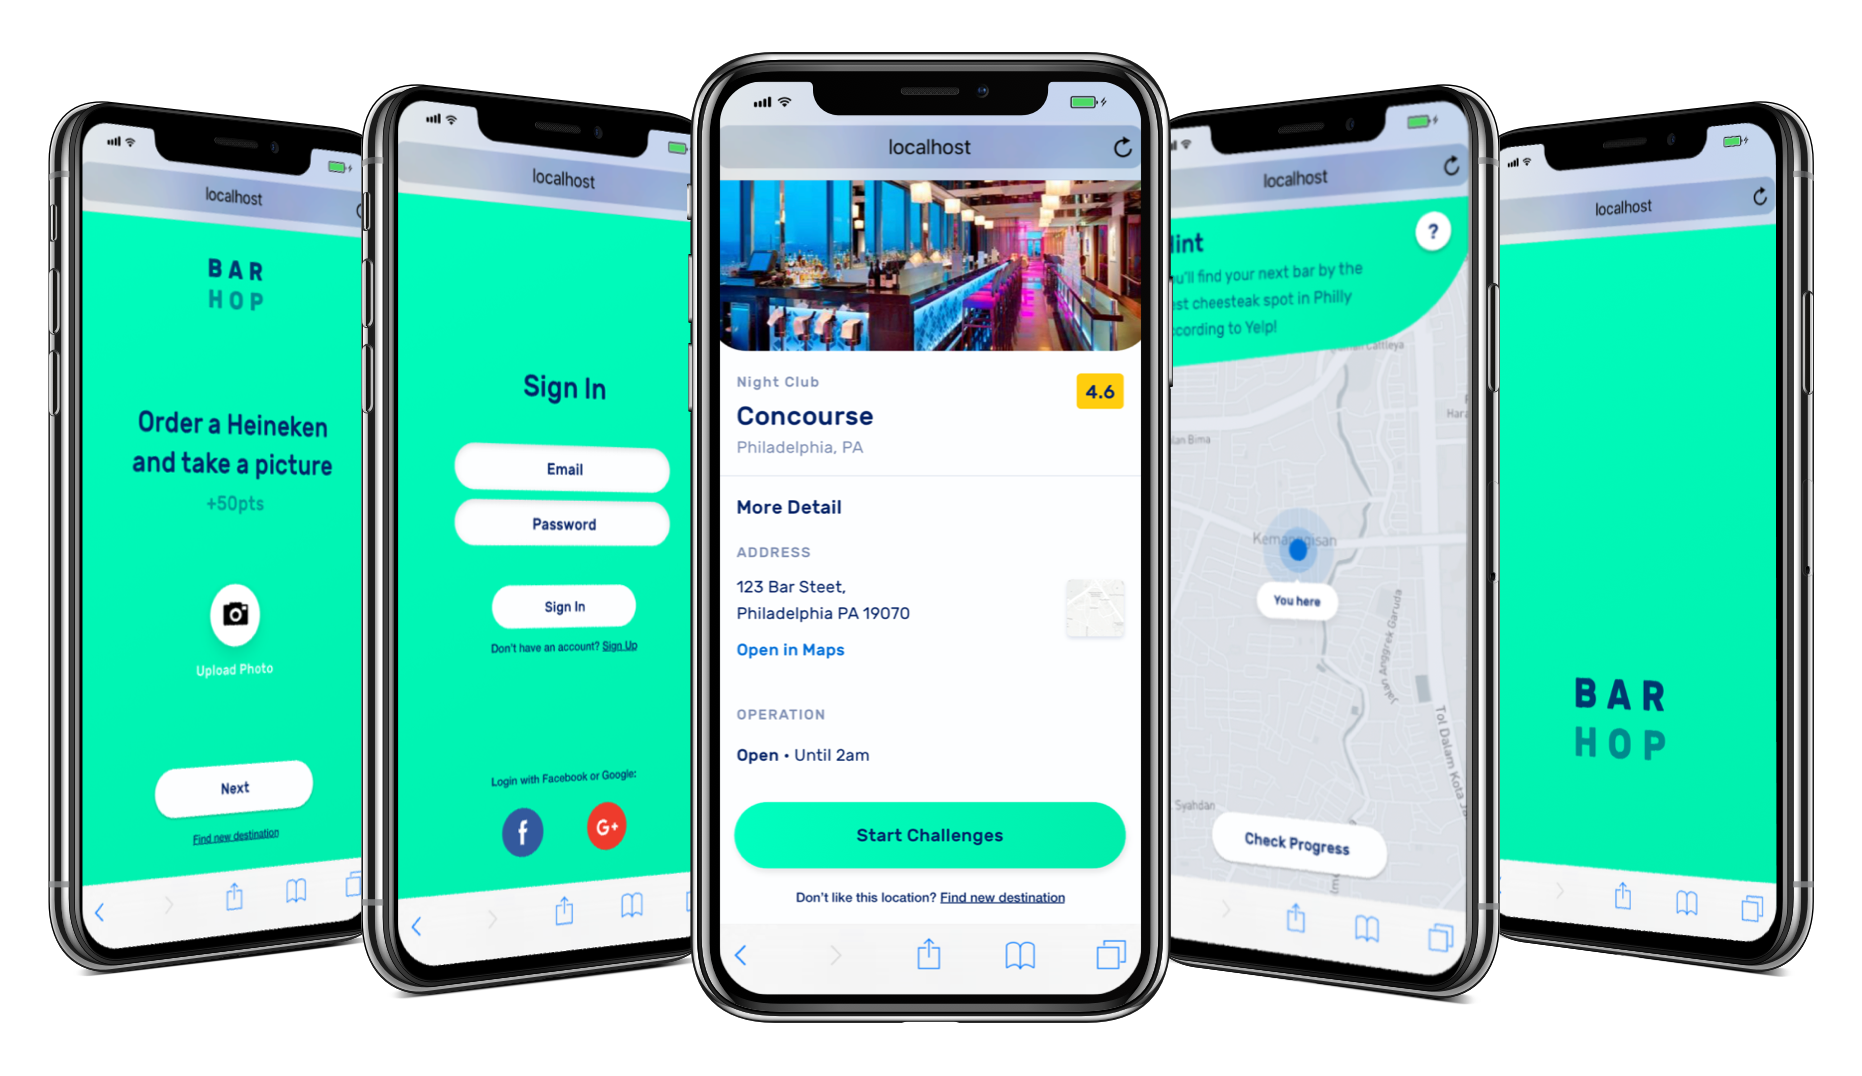
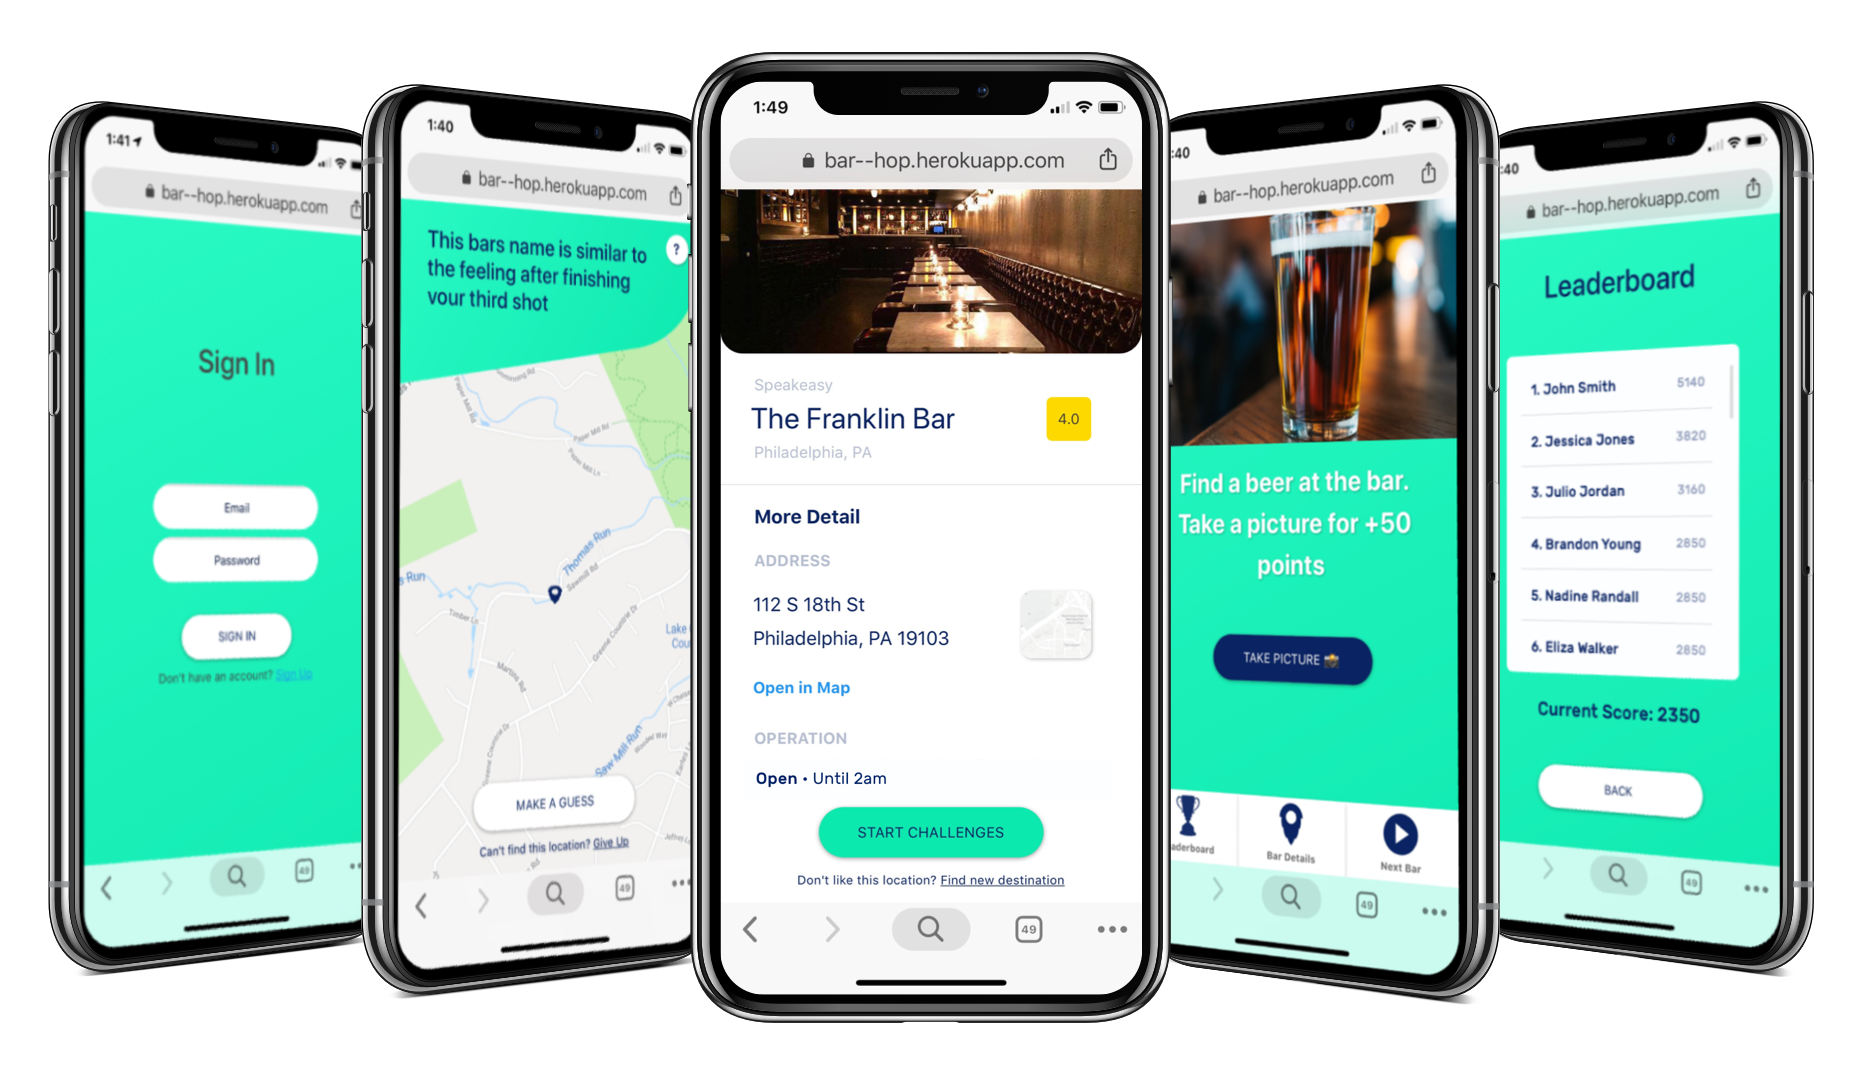
new phone images on desktop

diff --git a/client/src/Components/Desktop/Features.js b/client/src/Components/Desktop/Features.js
@@ -1,7 +1,7 @@
 import React, { Component } from "react";
 // import "./assets/styles/style.css";
 import "./assets/styles/Features.css";
-import mobile from "./assets/img/barhop.png"
+import map from "./assets/img/map.png"
 import yelp from "./assets/img/yelp.png"
 import leaderboard from "./assets/img/leaderboard.png"
 import challenge from "./assets/img/challenge.png"
@@ -21,13 +21,13 @@ class Features extends Component {
                     <div className="container mt-5 mx-auto my-auto d-flex justify-content-center">
                         <div className="row mt-5">
                             <div className="col-lg-12 mx-auto my-auto d-flex justify-content-center">
-                                <img className="shadow-lg friendsImg" src={mobile} alt={"mobile"} />
+                                <img className="shadow-lg friendsImg" src={map} alt={"map"} />
                             </div>
                             <div className="col-lg-12 mx-auto my-auto d-flex justify-content-center">
                             <h1 className=" secondHeader
                             col-md-12 text-center mt-4">Mapping Your Course</h1>
                             </div>
-                            <div className="col-lg-12 mx-auto my-auto d-flex justify-content-center">
+                            <div className="col-lg-8 col-md-12 mx-auto my-auto d-flex justify-content-center">
                                 <p className="pageText text-center fontStyle mr-4 ml-4 pr-4 pl-4 mt-3">A hint will guide you towards the right location. Continue to check your progress as you walk. You will get an alert when you have arrived at the correct bar.</p>
                             </div>
                         </div>
@@ -41,7 +41,7 @@ class Features extends Component {
                             <h1 className=" secondHeader
                             col-md-12 text-center mt-4">Find the Bar</h1>
                             </div>
-                            <div className="col-lg-12 mx-auto my-auto d-flex justify-content-center">
+                            <div className="col-lg-8 col-md-12 mx-auto my-auto d-flex justify-content-center">
                                 <p className="pageText text-center fontStyle mr-4 ml-4 pr-4 pl-4 mt-3">Once you enter the bars radius, you will recieve information about the bar. This includes the bars address, hours, and yelp rating.</p>
                             </div>
                         </div>
@@ -55,7 +55,7 @@ class Features extends Component {
                             <h1 className=" secondHeader
                             col-md-12 text-center mt-4">Complete Challenges</h1>
                             </div>
-                            <div className="col-lg-12 mx-auto my-auto d-flex justify-content-center">
+                            <div className="col-lg-8 col-md-12 mx-auto my-auto d-flex justify-content-center">
                                 <p className="pageText text-center fontStyle mr-4 ml-4 pr-4 pl-4 mt-3">Go head to head with your frineds to see who can collect the most points. You increase your score by completing mini challenges.</p>
                             </div>
                         </div>
@@ -69,7 +69,7 @@ class Features extends Component {
                             <h1 className=" secondHeader
                             col-md-12 text-center mt-4">Compete with Friends</h1>
                             </div>
-                            <div className="col-lg-12 mx-auto my-auto d-flex justify-content-center">
+                            <div className="col-lg-8 col-md-12 mx-auto my-auto d-flex justify-content-center">
                                 <p className="pageText text-center fontStyle mr-4 ml-4 pr-4 pl-4 mt-3">As you collect points you will climb the leaderboard. Keep playing to see if you can break into the top 5.</p>
                             </div>
                         </div>

diff --git a/client/src/Components/Desktop/NavTabs.js b/client/src/Components/Desktop/NavTabs.js
@@ -11,11 +11,11 @@ function NavTabs(props) {
          <Navbar.Collapse id="responsive-navbar-nav">
              <Nav className="ml-auto">
                  <NavDropdown title="More Info" id="collasible-nav-dropdown">
-                     <NavDropdown.Item href="#action/3.1">Action</NavDropdown.Item>
-                     <NavDropdown.Item href="#action/3.2">Another action</NavDropdown.Item>
+                     <NavDropdown.Item href="https://github.com/HaroldBernard/bar-hop" target="_blank">Github</NavDropdown.Item>
+                     {/* <NavDropdown.Item href="#action/3.2">Another action</NavDropdown.Item>
                      <NavDropdown.Item href="#action/3.3">Something</NavDropdown.Item>
                      <NavDropdown.Divider />
-                     <NavDropdown.Item href="#action/3.4">Separated link</NavDropdown.Item>
+                     <NavDropdown.Item href="#action/3.4">Separated link</NavDropdown.Item> */}
                  </NavDropdown>
 
                 <Nav.Link 
